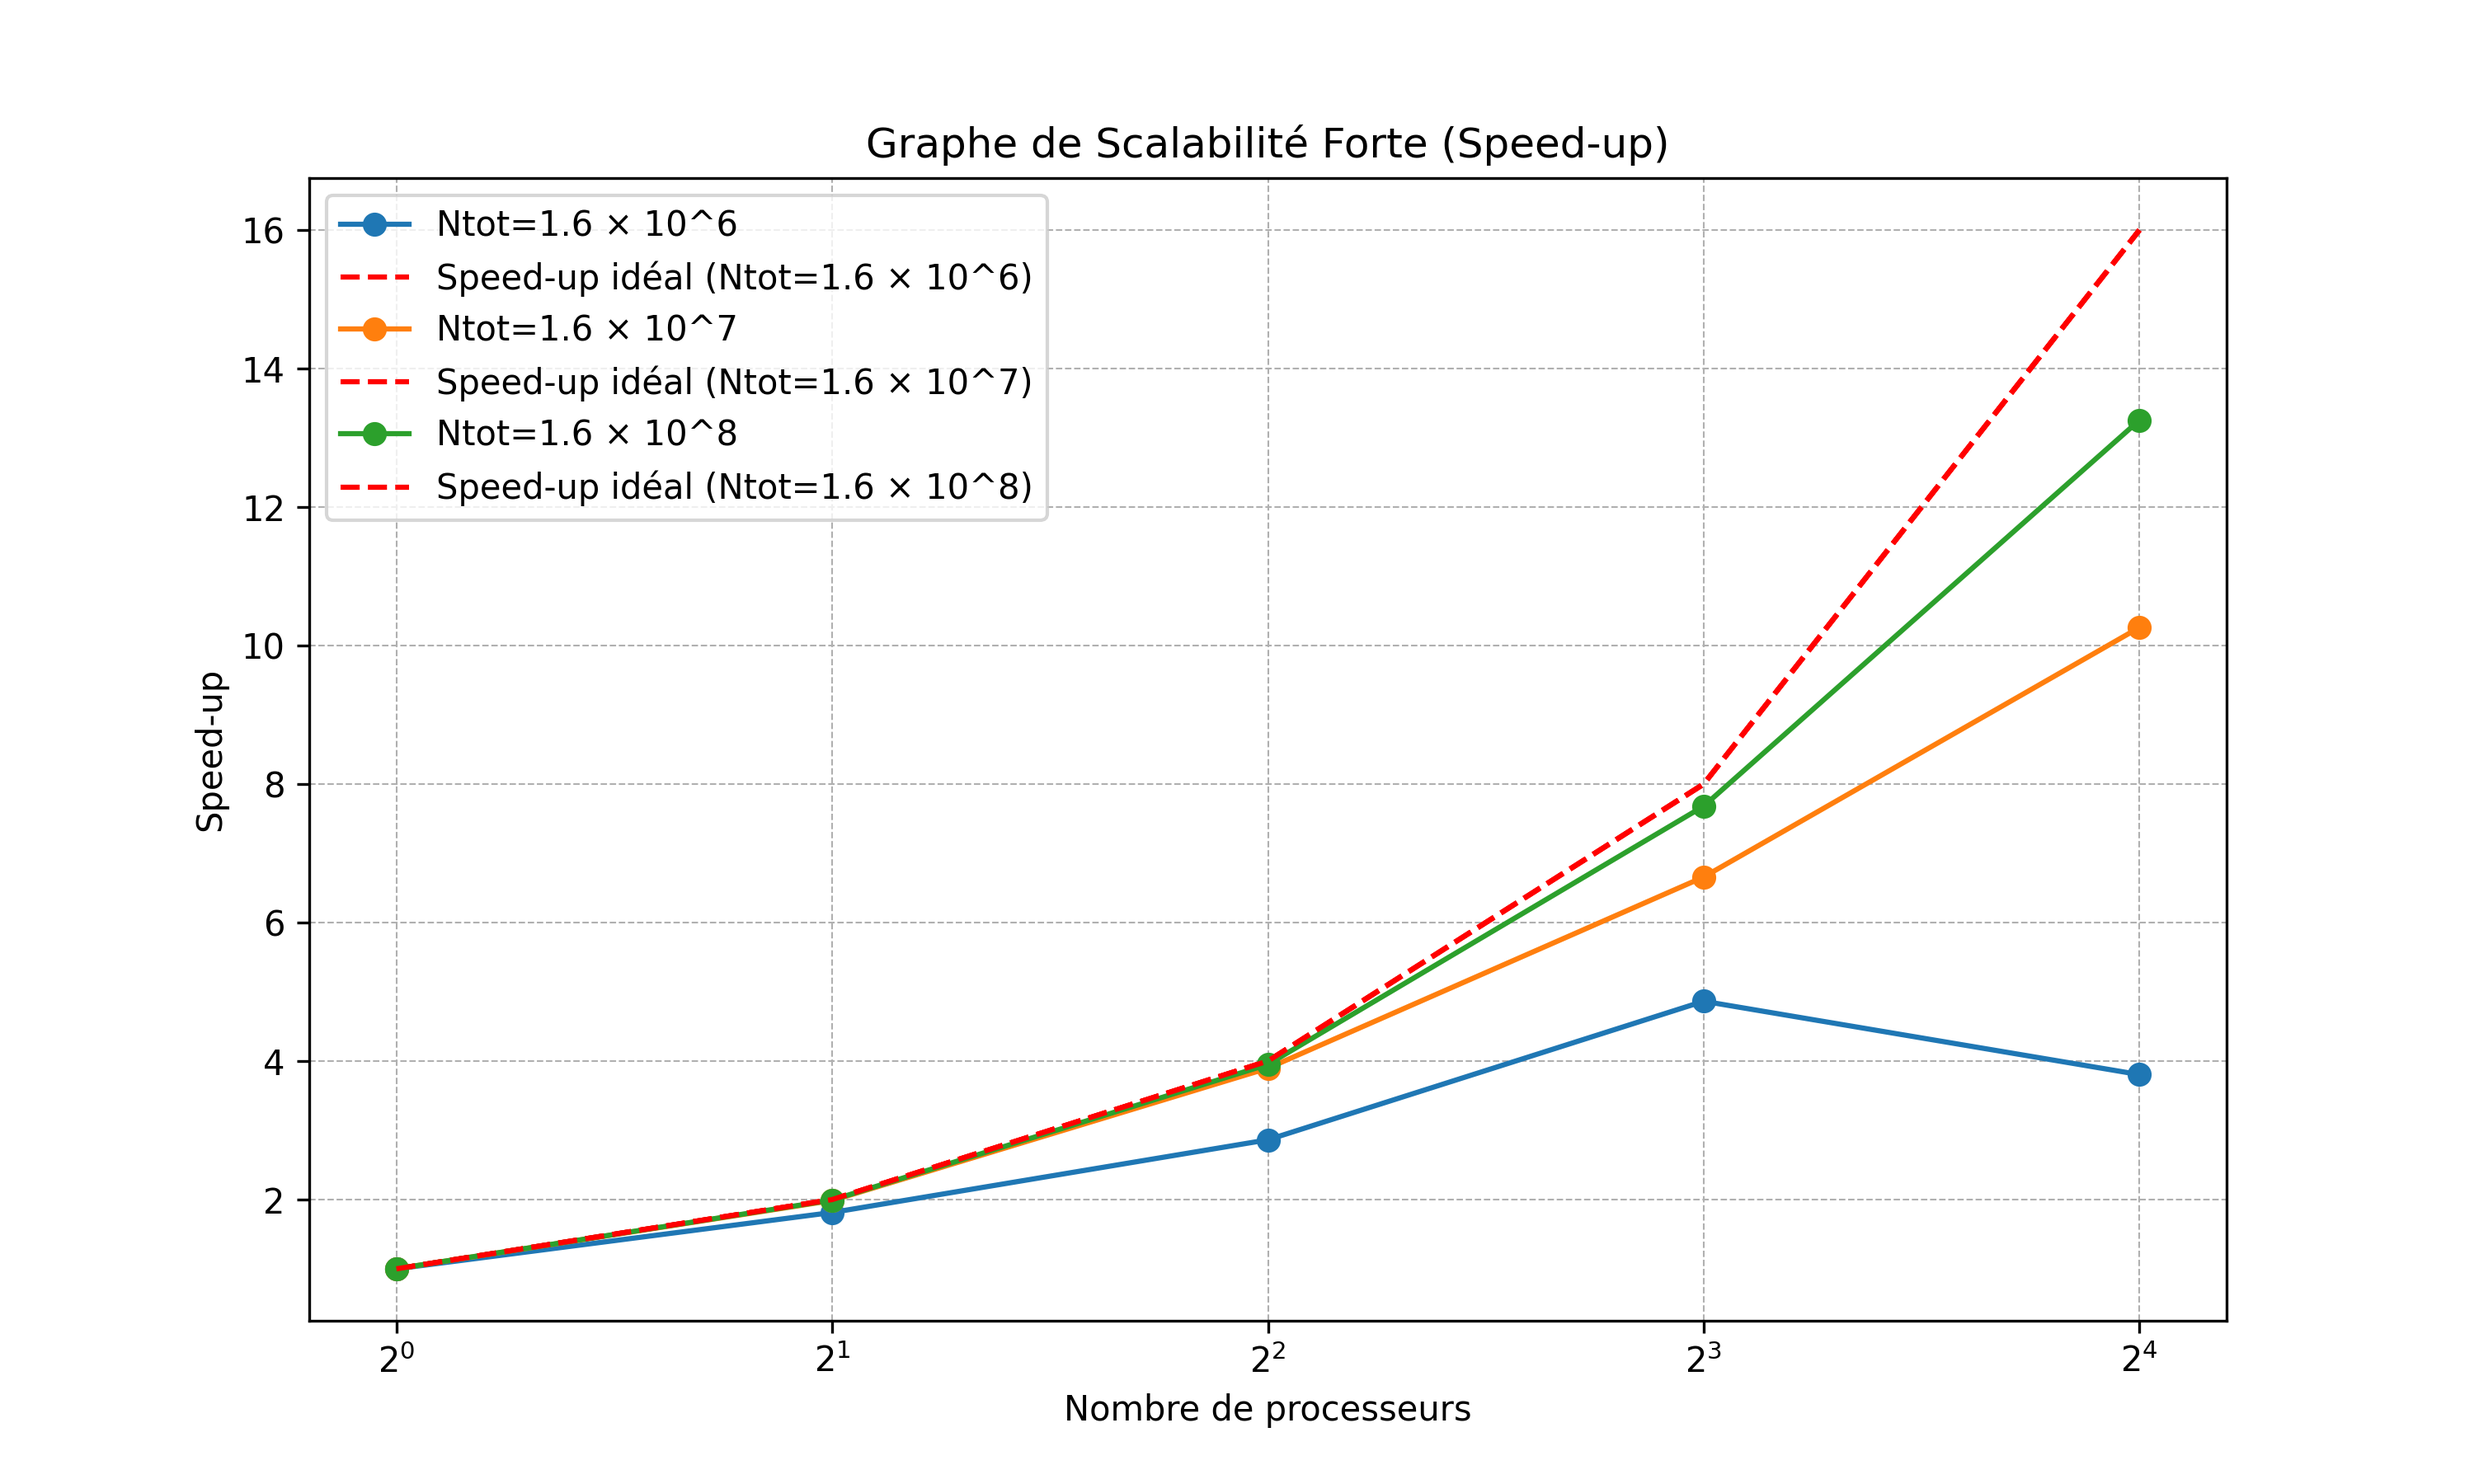
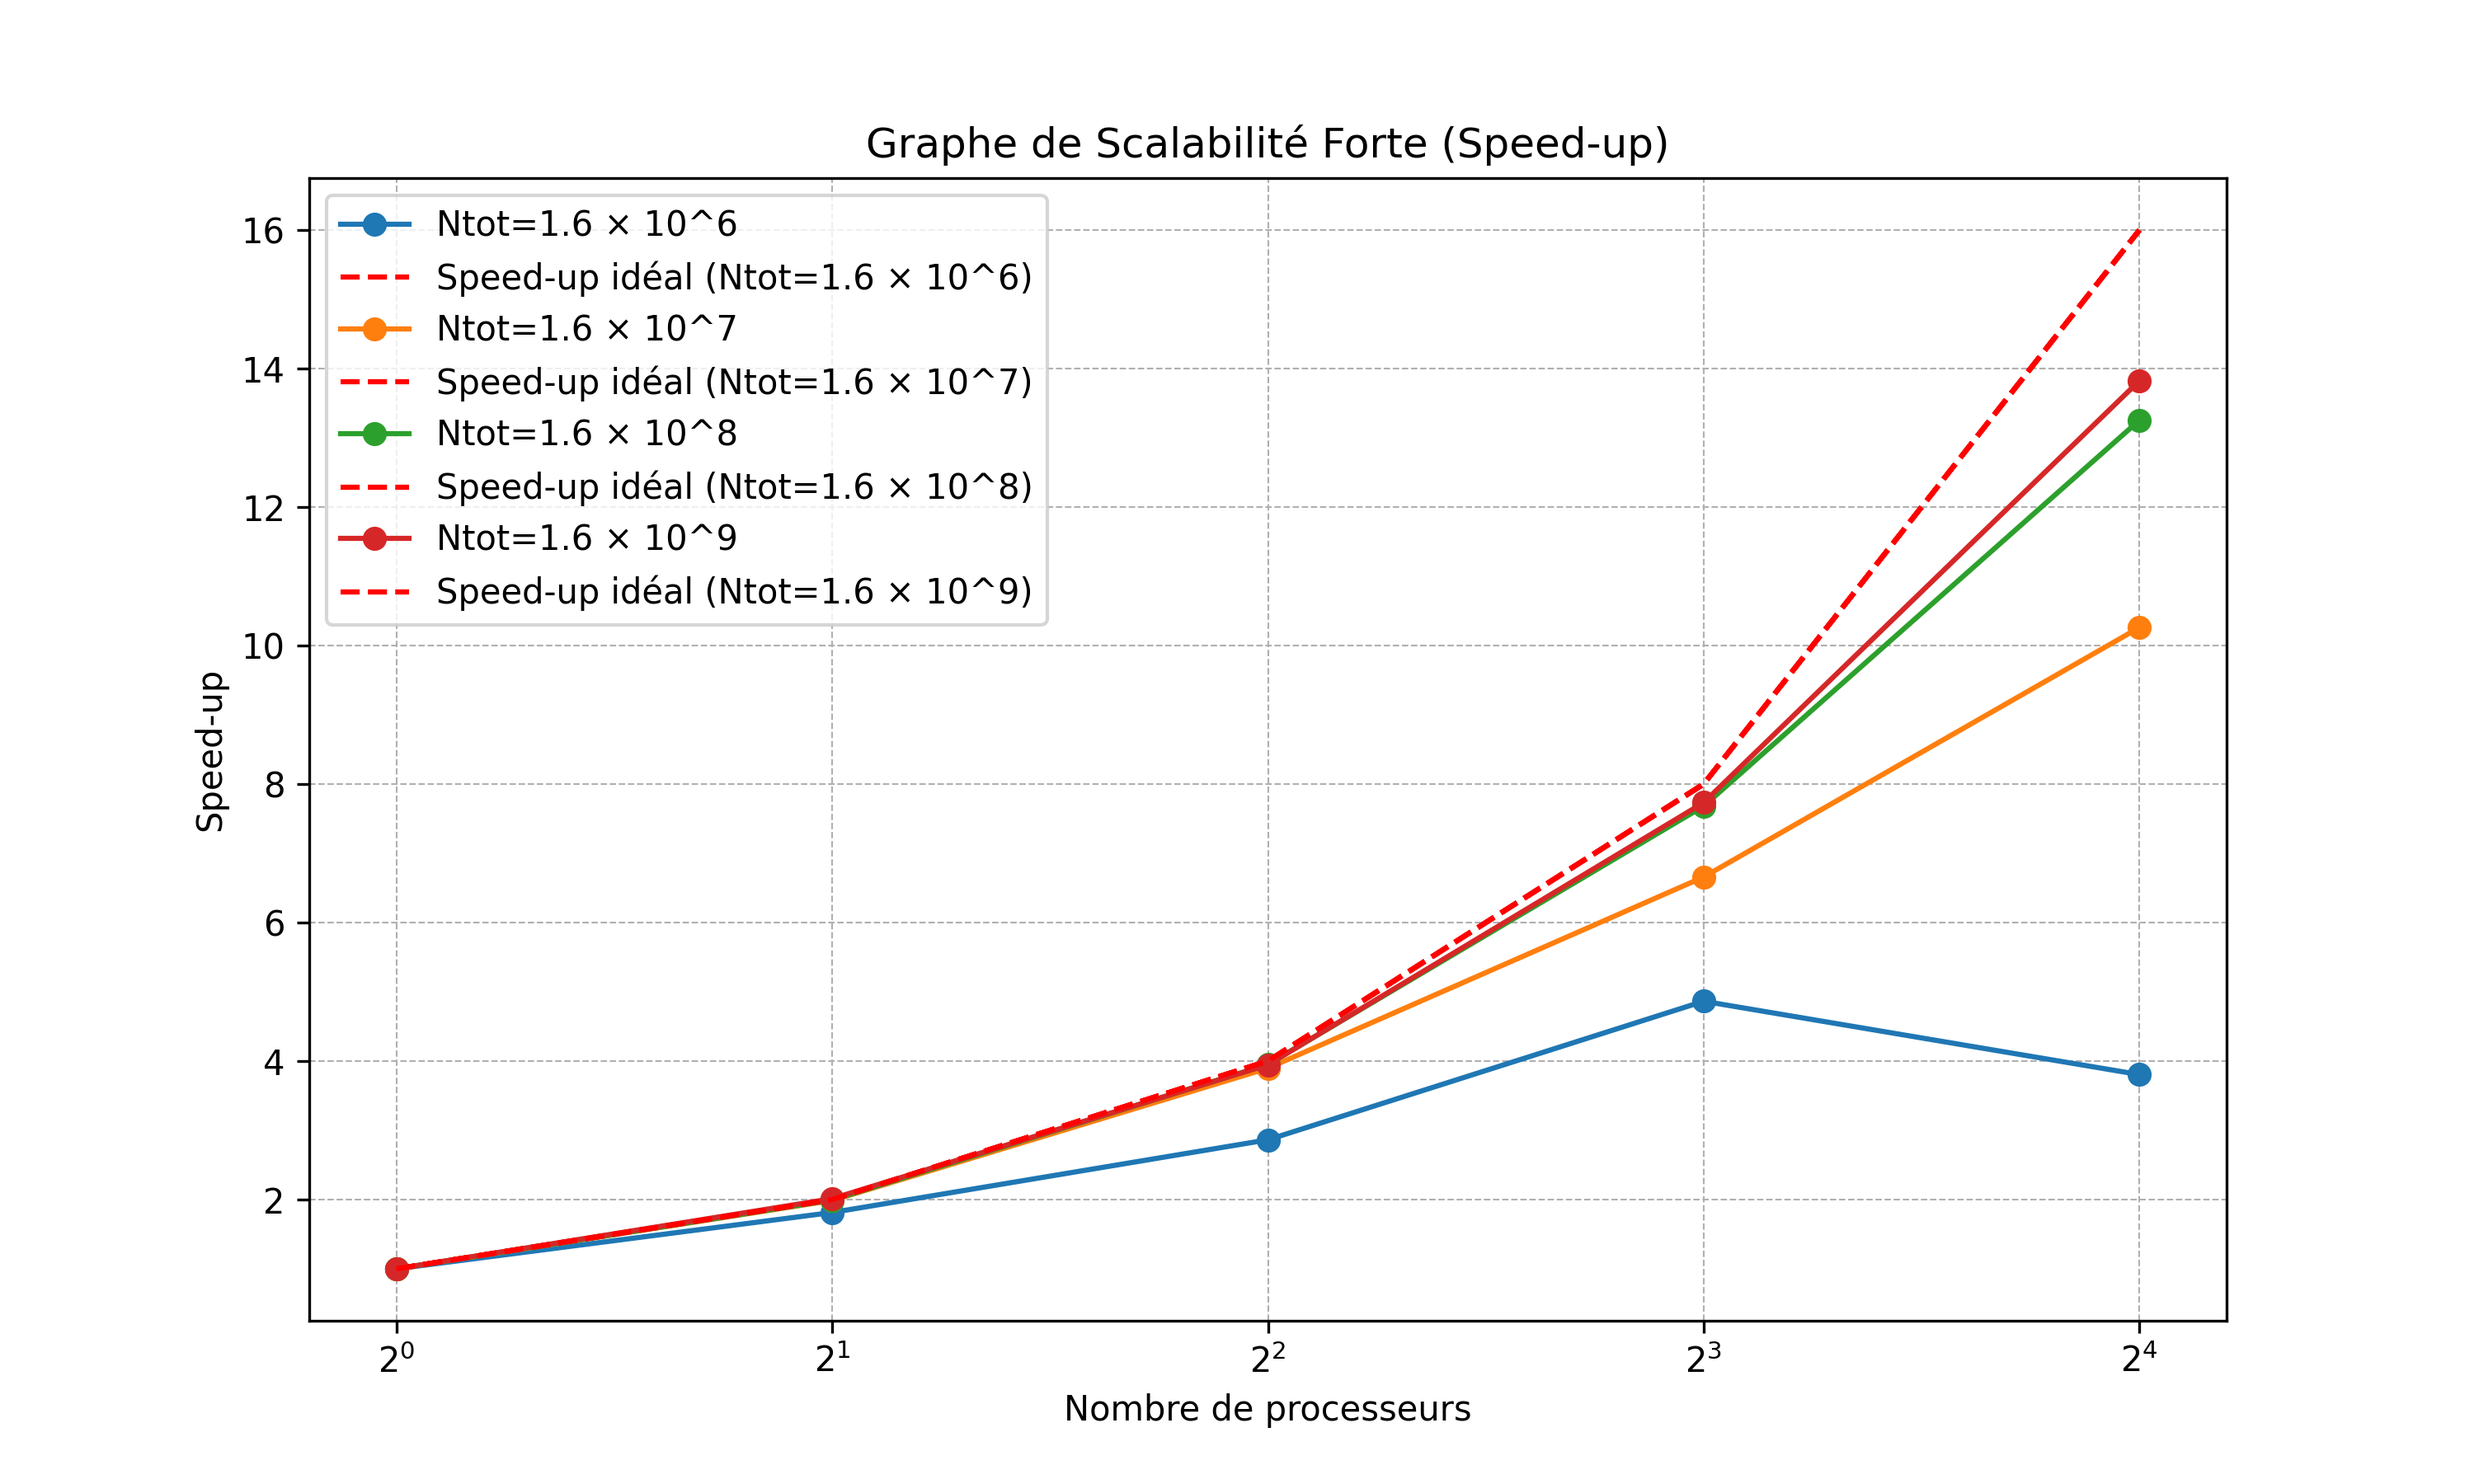
docs (rapport.md) : Ajout de graphes possédant des points à 10^9

diff --git a/docs/rapport.md b/docs/rapport.md
@@ -453,6 +453,11 @@ PI|Difference|Error|Ntot|AvailableProcessors|TimeDuration(ms)|Efficacité (%)
 3.141636|4.4e-05|5e-05|160000000.0|4.0|1141.8|91.13242249080399
 3.141479|-0.000113|3.6e-05|160000000.0|8.0|592.6|87.79530880863989
 3.141479|-0.000113|4e-05|160000000.0|16.0|349.2|74.49527491408935
+3.141594|2e-06|1.3e-05|1600000000.0|1.0|44445.4|100.0
+3.141609|1.6e-05|1e-05|1600000000.0|2.0|22746.0|97.69937571441133
+3.141564|-2.8e-05|1.3e-05|1600000000.0|4.0|11403.6|97.43721280998983
+3.141622|2.9e-05|1e-05|1600000000.0|8.0|5791.6|95.92642793010566
+3.141602|9e-06|5e-06|1600000000.0|16.0|3205.0|86.6719968798752
 
 ### Observations du graphe
 
@@ -532,6 +537,12 @@ L'**assignment 102** illustre une inefficacité critique en scalabilité faible.
 3,141520|-0,000073|0,000086|40000000,000000|4,000000|298,200000
 3,141522|-0,000070|0,000044|80000000,000000|8,000000|305,400000
 3,141538|-0,000055|0,000035|160000000,000000|16,000000|354,200000
+3,141600|0,000007|0,000032|100000000,000000|1,000000|2782,800000
+3,141579|-0,000014|0,000029|160000000,000000|1,600000|2807,400000
+3,141591|-0,000002|0,000022|320000000,000000|3,200000|2852,200000
+3,141562|-0,000031|0,000019|640000000,000000|6,400000|2904,600000
+3,141593|-0,000000|0,000013|1280000000,000000|12,800000|3077,400000
+3,141621|0,000028|0,000009|1600000000,000000|16,000000|3221,500000
 
 ### Observations générales 
 
@@ -638,6 +649,11 @@ En résumé, il s'agit d'une **programmation distribuée** utilisant des **socke
 3.141602|9e-06|2.8e-05|160000000.0|4.0|1206.133333|98.77293833566574
 3.141588|-5e-06|3.8e-05|160000000.0|8.0|620.4|96.0133247300129
 3.141569|-2.3e-05|3.1e-05|160000000.0|16.0|359.533333|82.83886526663161
+3.141615|2.3e-05|1.1e-05|1600000000.0|1.0|46432.0|100.0
+3.14159|-2e-06|1.5e-05|1600000000.0|2.0|23064.1|100.65859929500827
+3.141594|1e-06|7e-06|1600000000.0|4.0|11766.7|98.65127860827589
+3.1416|7e-06|1.3e-05|1600000000.0|8.0|6004.9|96.65439890755884
+3.141571|-2.2e-05|1.1e-05|1600000000.0|16.0|3358.9|86.39733246003155
 
 
 #### Observations générales :
@@ -674,21 +690,27 @@ Le modèle **MasterWorker** montre une **bonne scalabilité forte** pour des cha
 
 | PI       | Difference | Error    | Ntot              | AvailableProcessors | TimeDuration (ms) |
 |----------|------------|----------|-------------------|---------------------|-------------------|
-3,142757|0,001164|0,001715|100000,000000|1,000000|7,000000
-3,139159|-0,002434|0,001148|200000,000000|2,000000|8,666667
-3,141306|-0,000287|0,000732|400000,000000|4,000000|9,133333
-3,142230|0,000637|0,000441|800000,000000|8,000000|11,466667
-3,142010|0,000417|0,000296|1600000,000000|16,000000|14,800000
-3,141658|0,000065|0,000341|1000000,000000|1,000000|33,466667
-3,141141|-0,000452|0,000392|2000000,000000|2,000000|36,000000
-3,141809|0,000216|0,000183|4000000,000000|4,000000|38,666667
-3,141421|-0,000172|0,000171|8000000,000000|8,000000|40,866667
-3,141600|0,000007|0,000094|16000000,000000|16,000000|47,666667
-3,141617|0,000024|0,000128|10000000,000000|1,000000|290,266667
-3,141607|0,000015|0,000088|20000000,000000|2,000000|297,800000
-3,141565|-0,000028|0,000089|40000000,000000|4,000000|300,533333
-3,141599|0,000007|0,000061|80000000,000000|8,000000|313,866667
-3,141609|0,000016|0,000028|160000000,000000|16,000000|369,066667
+3,142757| 0,001164   |0,001715|100000,000000|1,000000|7,000000
+3,139159| -0,002434  |0,001148|200000,000000|2,000000|8,666667
+3,141306| -0,000287  |0,000732|400000,000000|4,000000|9,133333
+3,142230| 0,000637   |0,000441|800000,000000|8,000000|11,466667
+3,142010| 0,000417   |0,000296|1600000,000000|16,000000|14,800000
+3,141658| 0,000065   |0,000341|1000000,000000|1,000000|33,466667
+3,141141| -0,000452  |0,000392|2000000,000000|2,000000|36,000000
+3,141809| 0,000216   |0,000183|4000000,000000|4,000000|38,666667
+3,141421| -0,000172  |0,000171|8000000,000000|8,000000|40,866667
+3,141600| 0,000007   |0,000094|16000000,000000|16,000000|47,666667
+3,141617| 0,000024   |0,000128|10000000,000000|1,000000|290,266667
+3,141607| 0,000015   |0,000088|20000000,000000|2,000000|297,800000
+3,141565| -0,000028  |0,000089|40000000,000000|4,000000|300,533333
+3,141599| 0,000007   |0,000061|80000000,000000|8,000000|313,866667
+3,141609| 0,000016   |0,000028|160000000,000000|16,000000|369,066667
+3,141592| 0,000001   |0,000059|100000000,000000|1,000000|2882,200000
+3,141532| -0,000061  |0,000045|200000000,000000|2,000000|2892,500000
+3,141590| -0,000002  |0,000014|400000000,000000|4,000000|2942,600000
+3,141559| -0,000034  |0,000014|800000000,000000|8,000000|3009,700000
+3,141622| 0,000029   |0,000013|1600000000,000000|16,000000|3343,300000
+
 ![graphique_erreurs_MasterSocket.png](..%2F..%2F..%2FPycharmProjects%2FpythonProject3%2Fgraphique_erreurs_MasterSocket.png)
 
 #### Analyse du graphe (Scalabilité faible - MasterWorker) :
